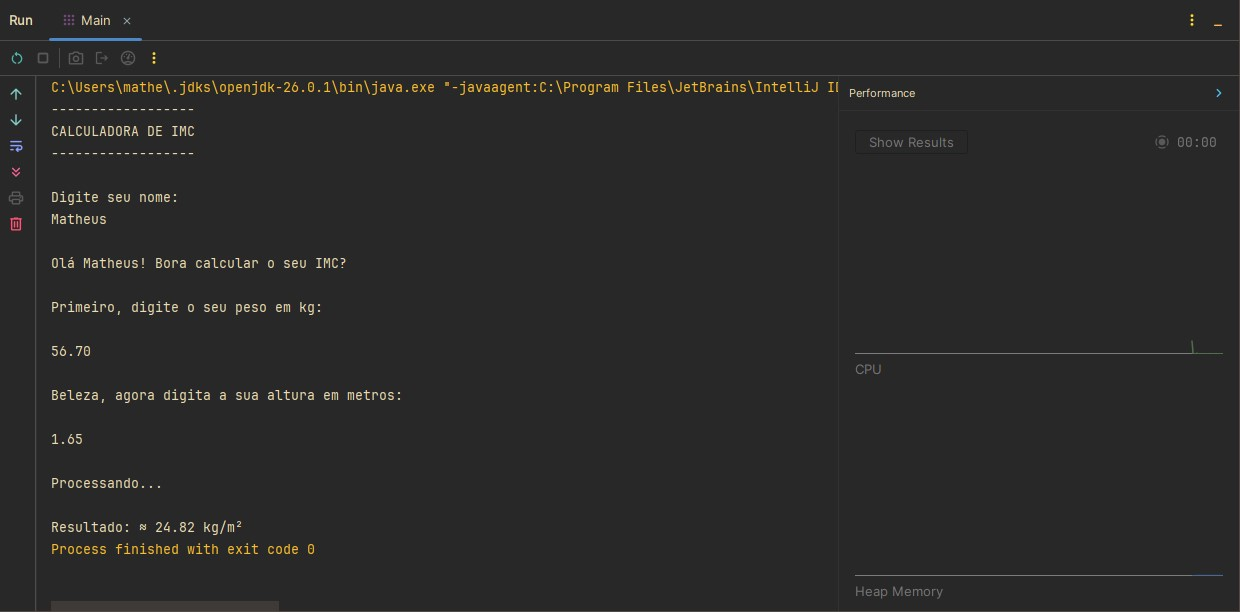
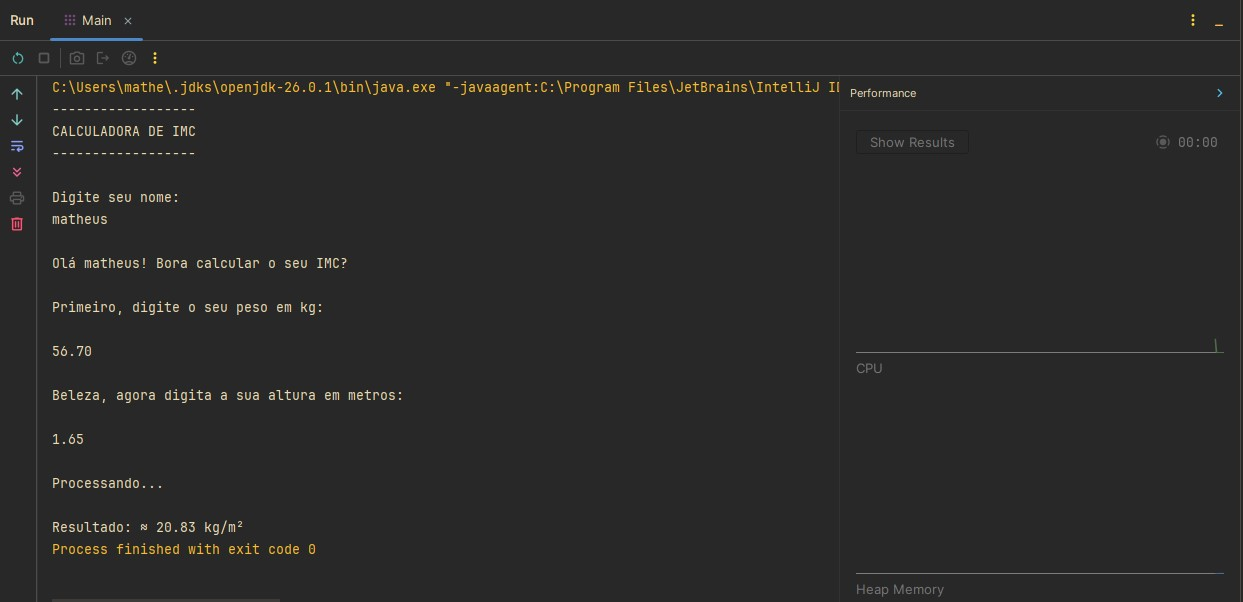
fix

diff --git a/src/Main.java b/src/Main.java
@@ -28,7 +28,7 @@ public class Main {
 
         System.out.println("Processando... \n");
 
-        double imc = peso / (Math.pow(altura, altura));
+        double imc = peso / (Math.pow(altura, 2));
 
         System.out.printf("Resultado: ≈ %.2f kg/m²", imc);
 